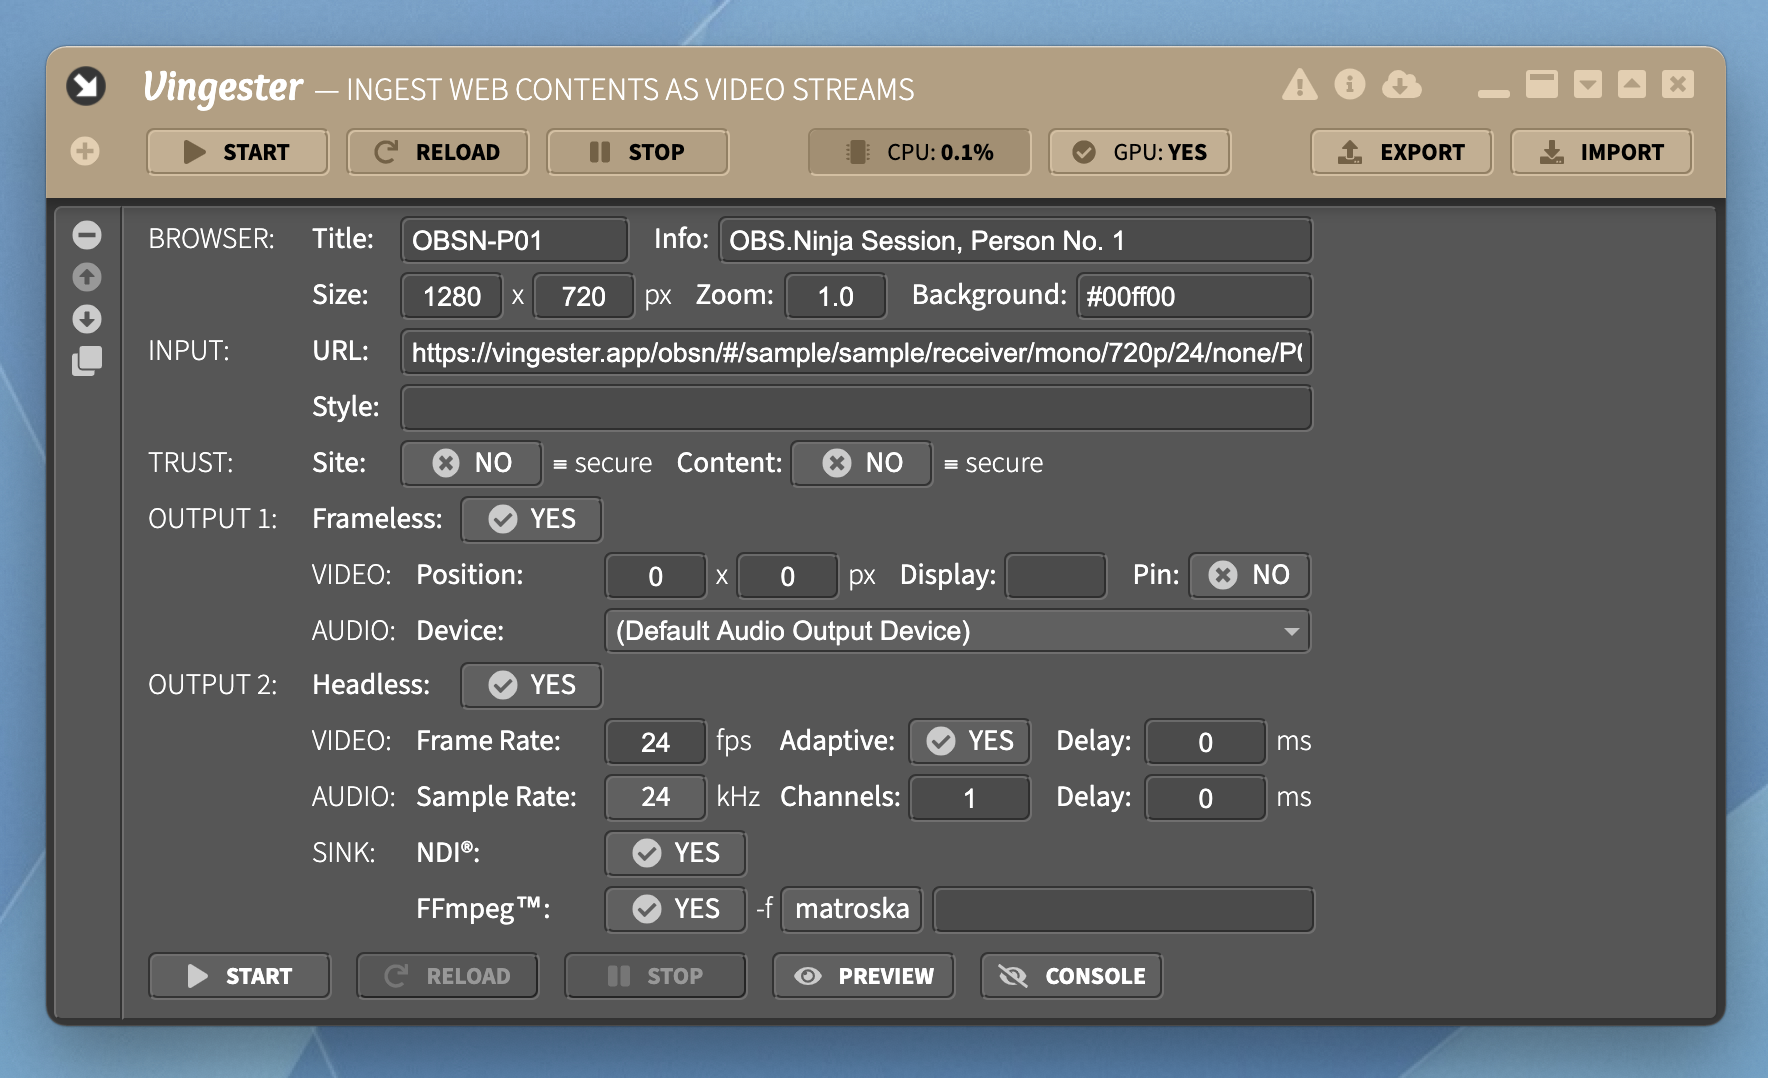
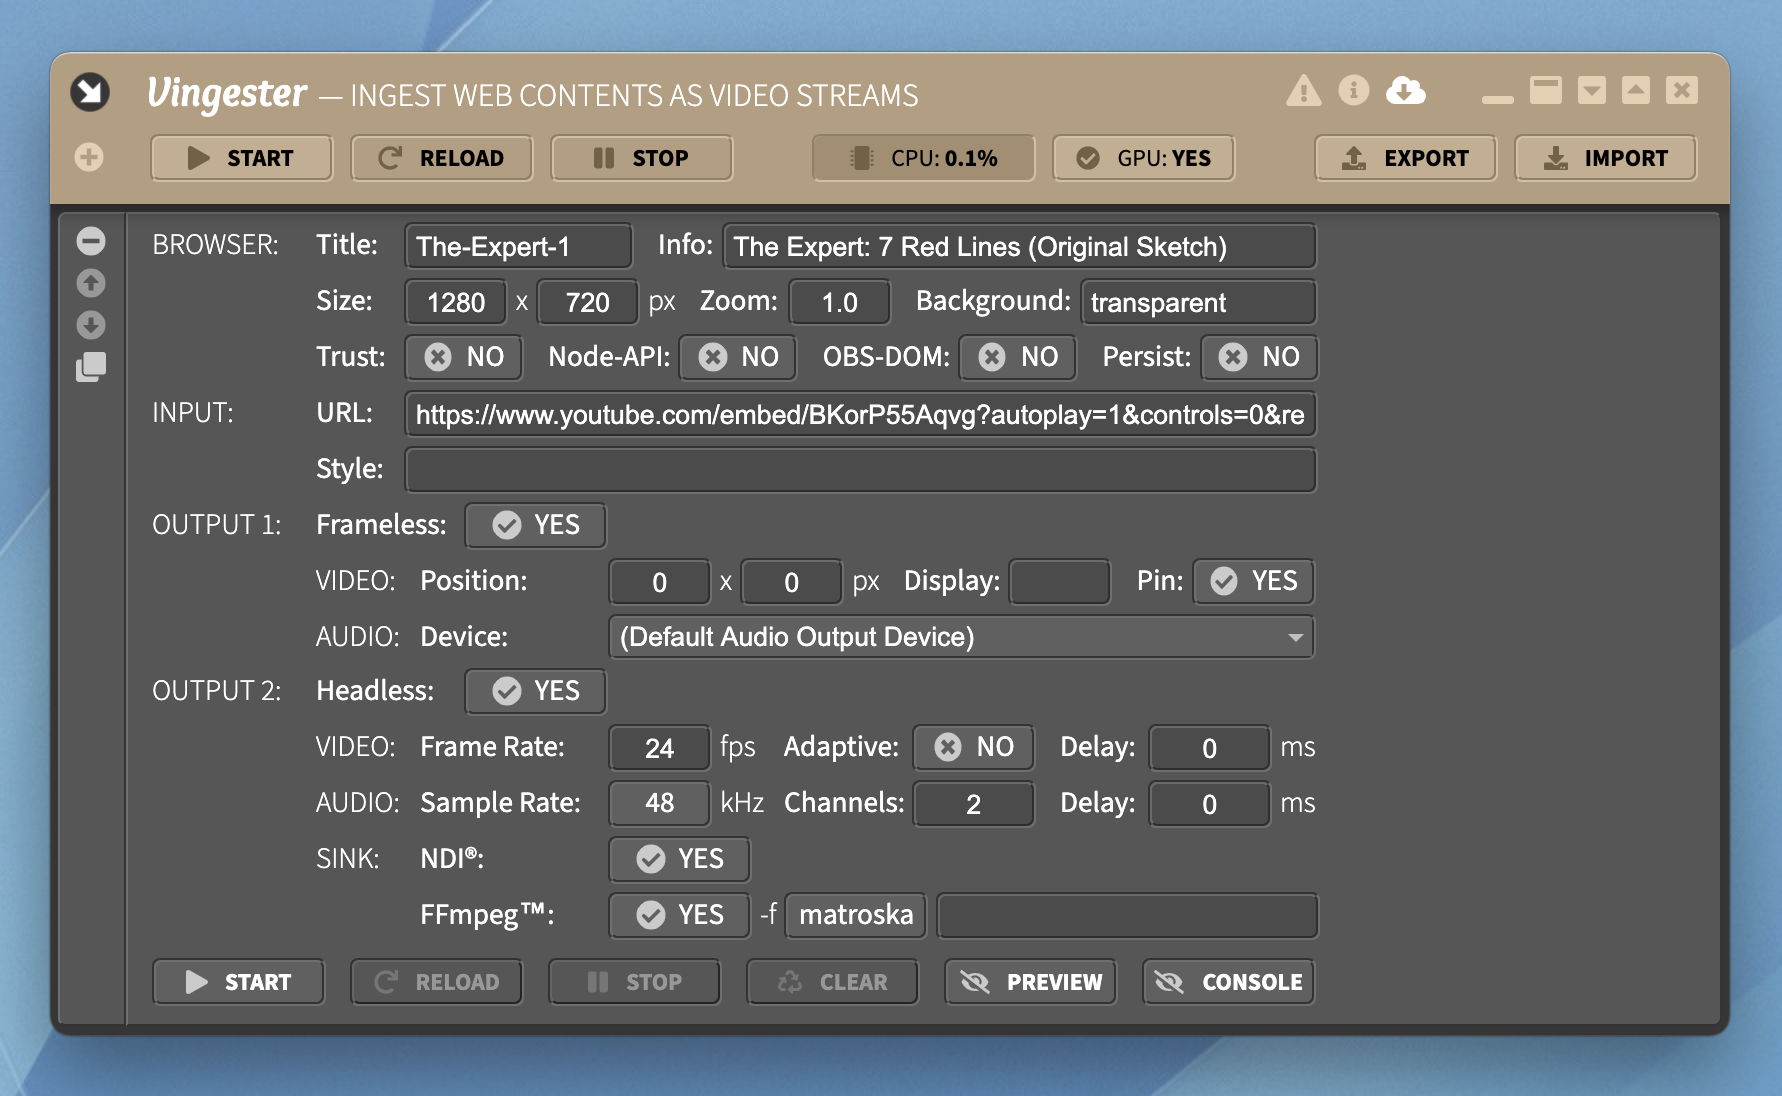
finish documentation

Changed region(s): [[0.0, 0.0306, 0.9955, 1.0]]

diff --git a/guide/configuration.md b/guide/configuration.md
@@ -41,6 +41,31 @@ The first group of configuration fields target the browser:
   transparent background or `#RRGGBB` for a particular RGB background
   color. For a chroma-key style background, use `#00ff00`.
 
+- **Browser / Trust**:<br/>
+  Enable or disable the site trust, i.e., whether the SSL/TLS certificate of the
+  site (as specified by **Input / URL**) is trusted. Usually, this should be
+  disabled to not enforce the trust and rely on valid certificates. Enable
+  it only to especially enfore the trust of your *own* self-signed certificates
+  when communicating over `localhost`.
+
+- **Browser / Node-API**:<br/>
+  Enable or disable the Electron/Node API integration for the Web
+  Contents. Usually, this should be disabled to not give the Web
+  Contents access to the local system. Enable it only to especially
+  grant access for your *own* applications which require elevated
+  privileges.
+
+- **Browser / OBS-DOM**:<br/>
+  Enable or disable the OBS Studio Browser Source emulation in the
+  Document Object Model (DOM) of the Web Contents. Usually, this should
+  only be enabled for applications which explicitly check whether they
+  are running under the OBS Studio Browser Source. The most prominent
+  example is OBS.Ninja, which this way supports tally light information.
+
+- **Browser / Persist**:<br/>
+  Enable or disable the Web Contents session persistence. Enable it
+  if you want to keep state across stop/start or reload actions.
+
 Input
 -----
 
@@ -57,23 +82,6 @@ The second group of configuration fields target the Web Contents itself:
   The CSS styles to be injected into the Web Contents for overriding its styles.
   For instance, use `html, body { background: transparent !important; }` to
   force the background of the Web Contents to be transparent.
-
-Trust
------
-
-- **Trust / Site**:<br/>
-  Enable or disable the site trust, i.e., whether the SSL/TLS certificate of the
-  site (as specified by **Input / URL**) is trusted. Usually, this should be
-  disabled to not enforce the trust and rely on valid certificates. Enable
-  it only to especially enfore the trust of your *own* self-signed certificates
-  when communicating over `localhost`.
-
-- **Trust / Content**:<br/>
-  Enable or disable the content trust, i.e., whether the Web Contents is trusted
-  and hence the Node API integration should be available to it. Usually, this should
-  be disabled to not enforce the trust and give the Web Contents no access to the
-  local system. Enable it only to especially enforce the trust of your *own*
-  applications which require elevated privileges.
 
 Output 1 (Frameless)
 --------------------
